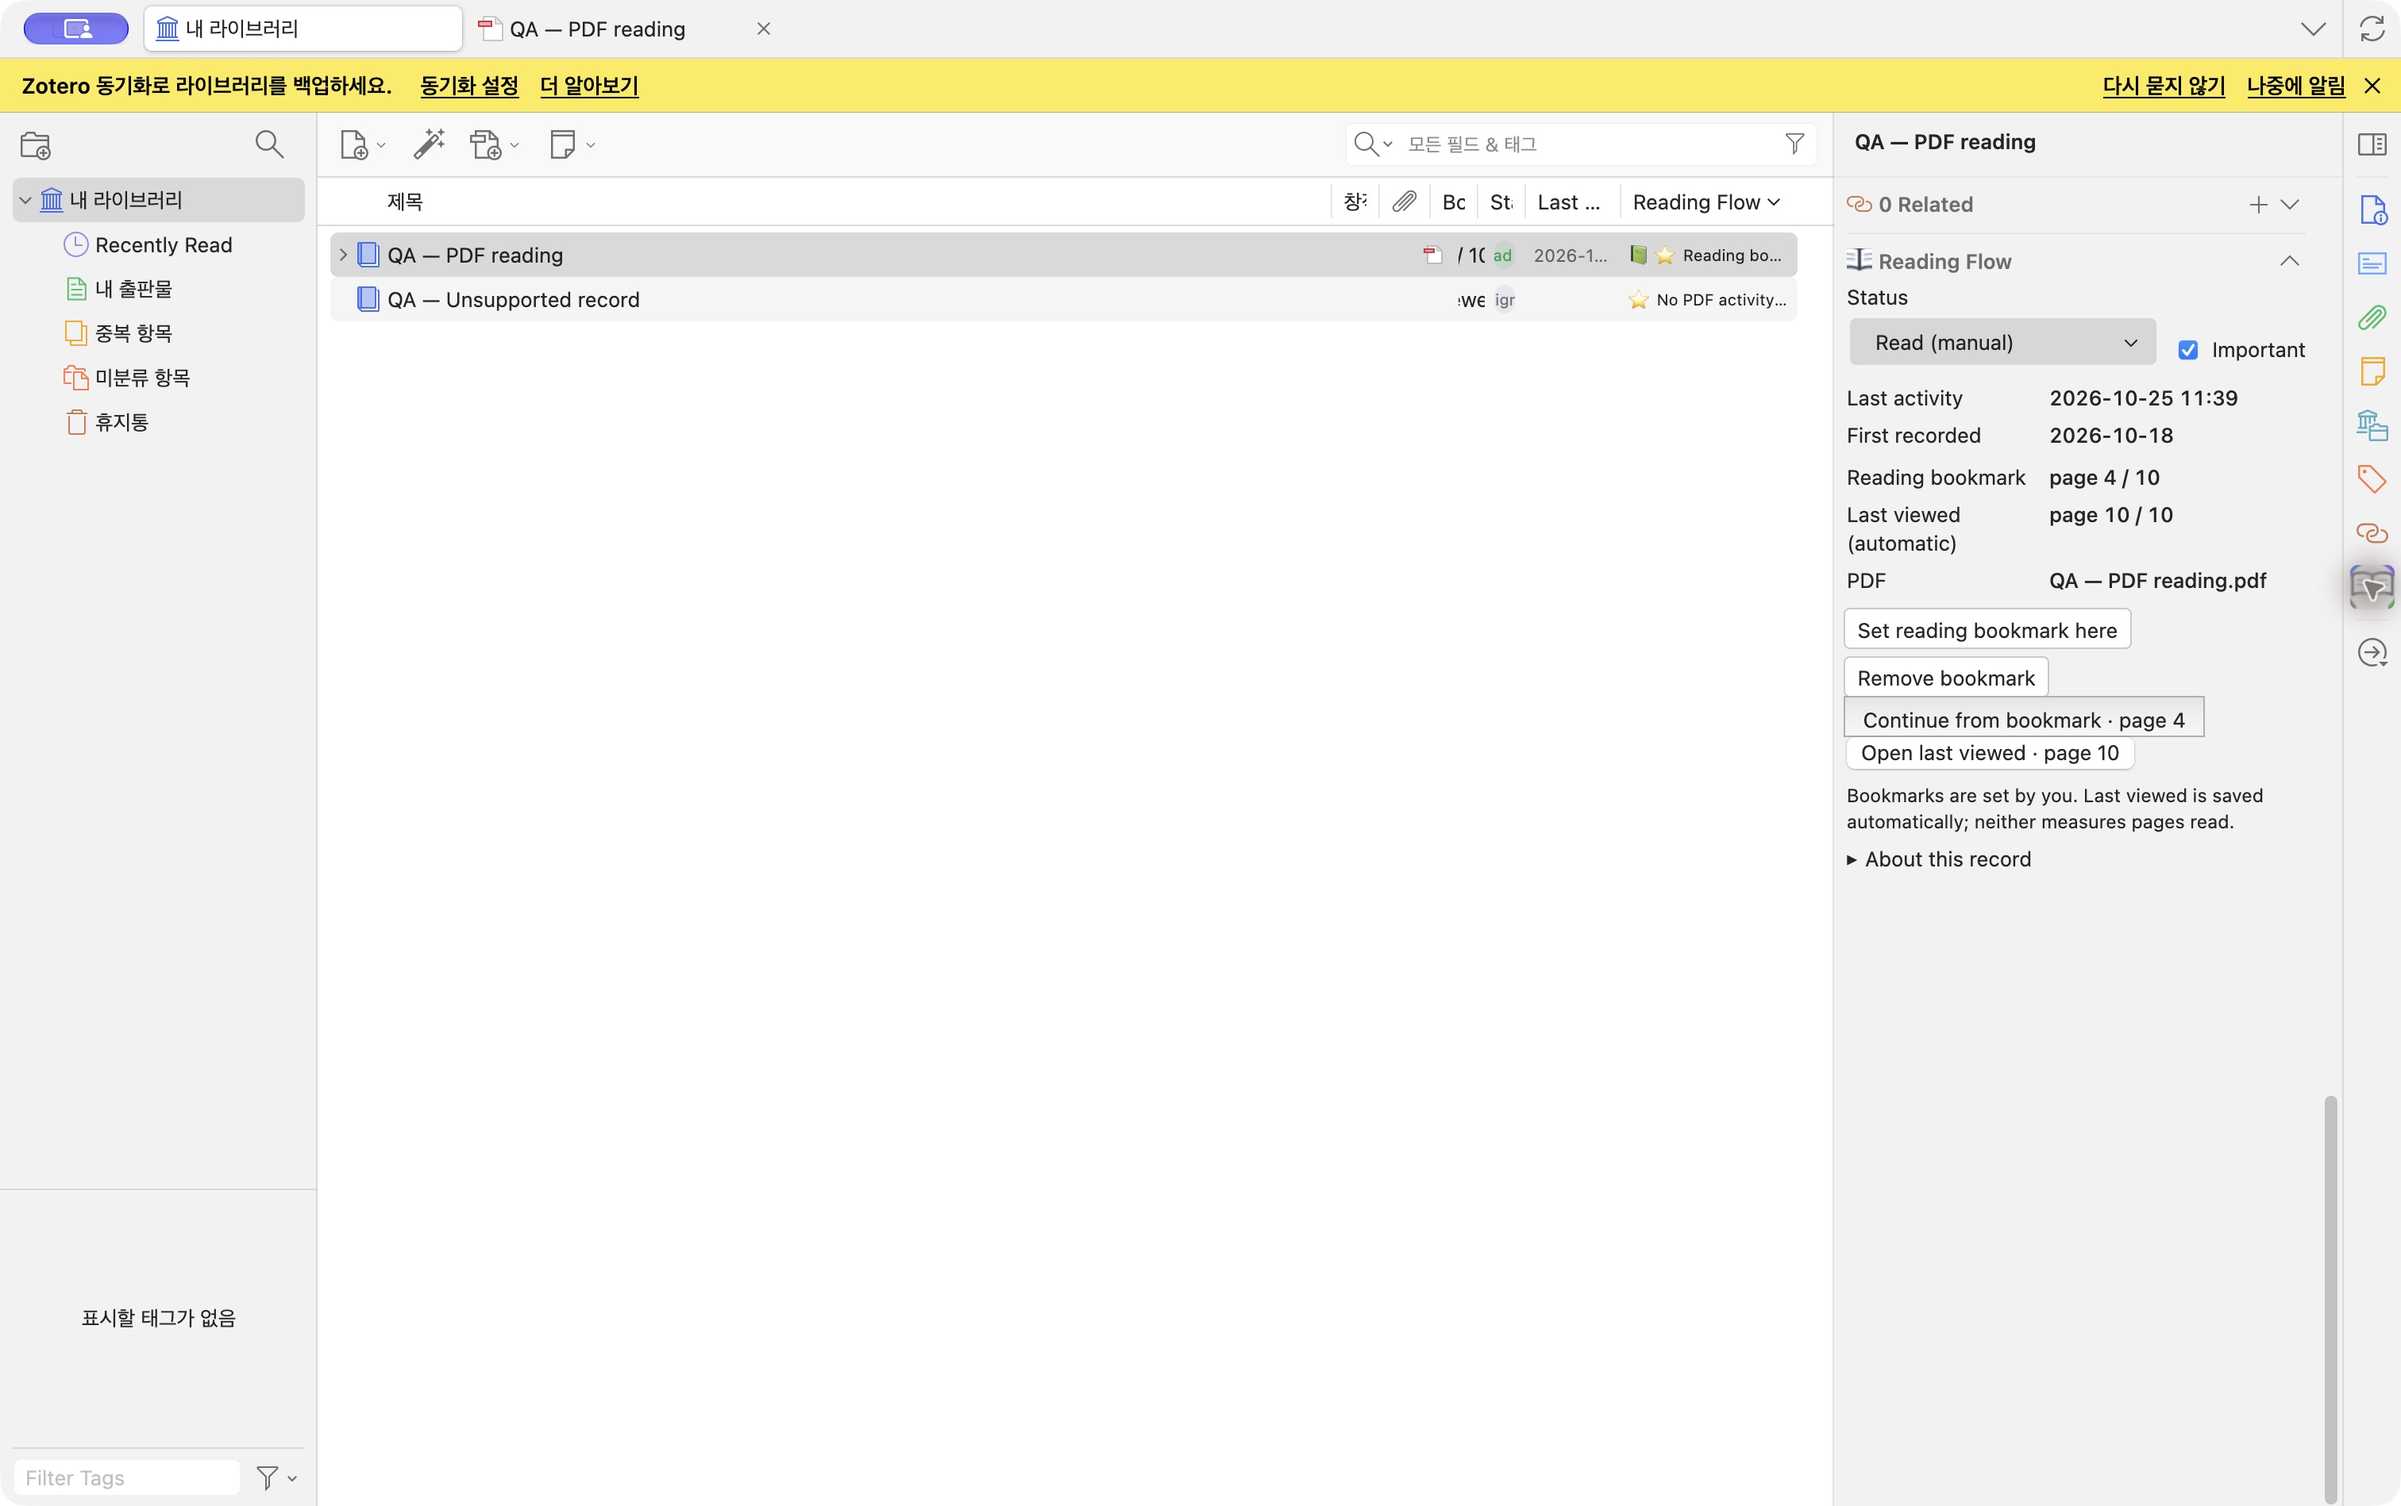
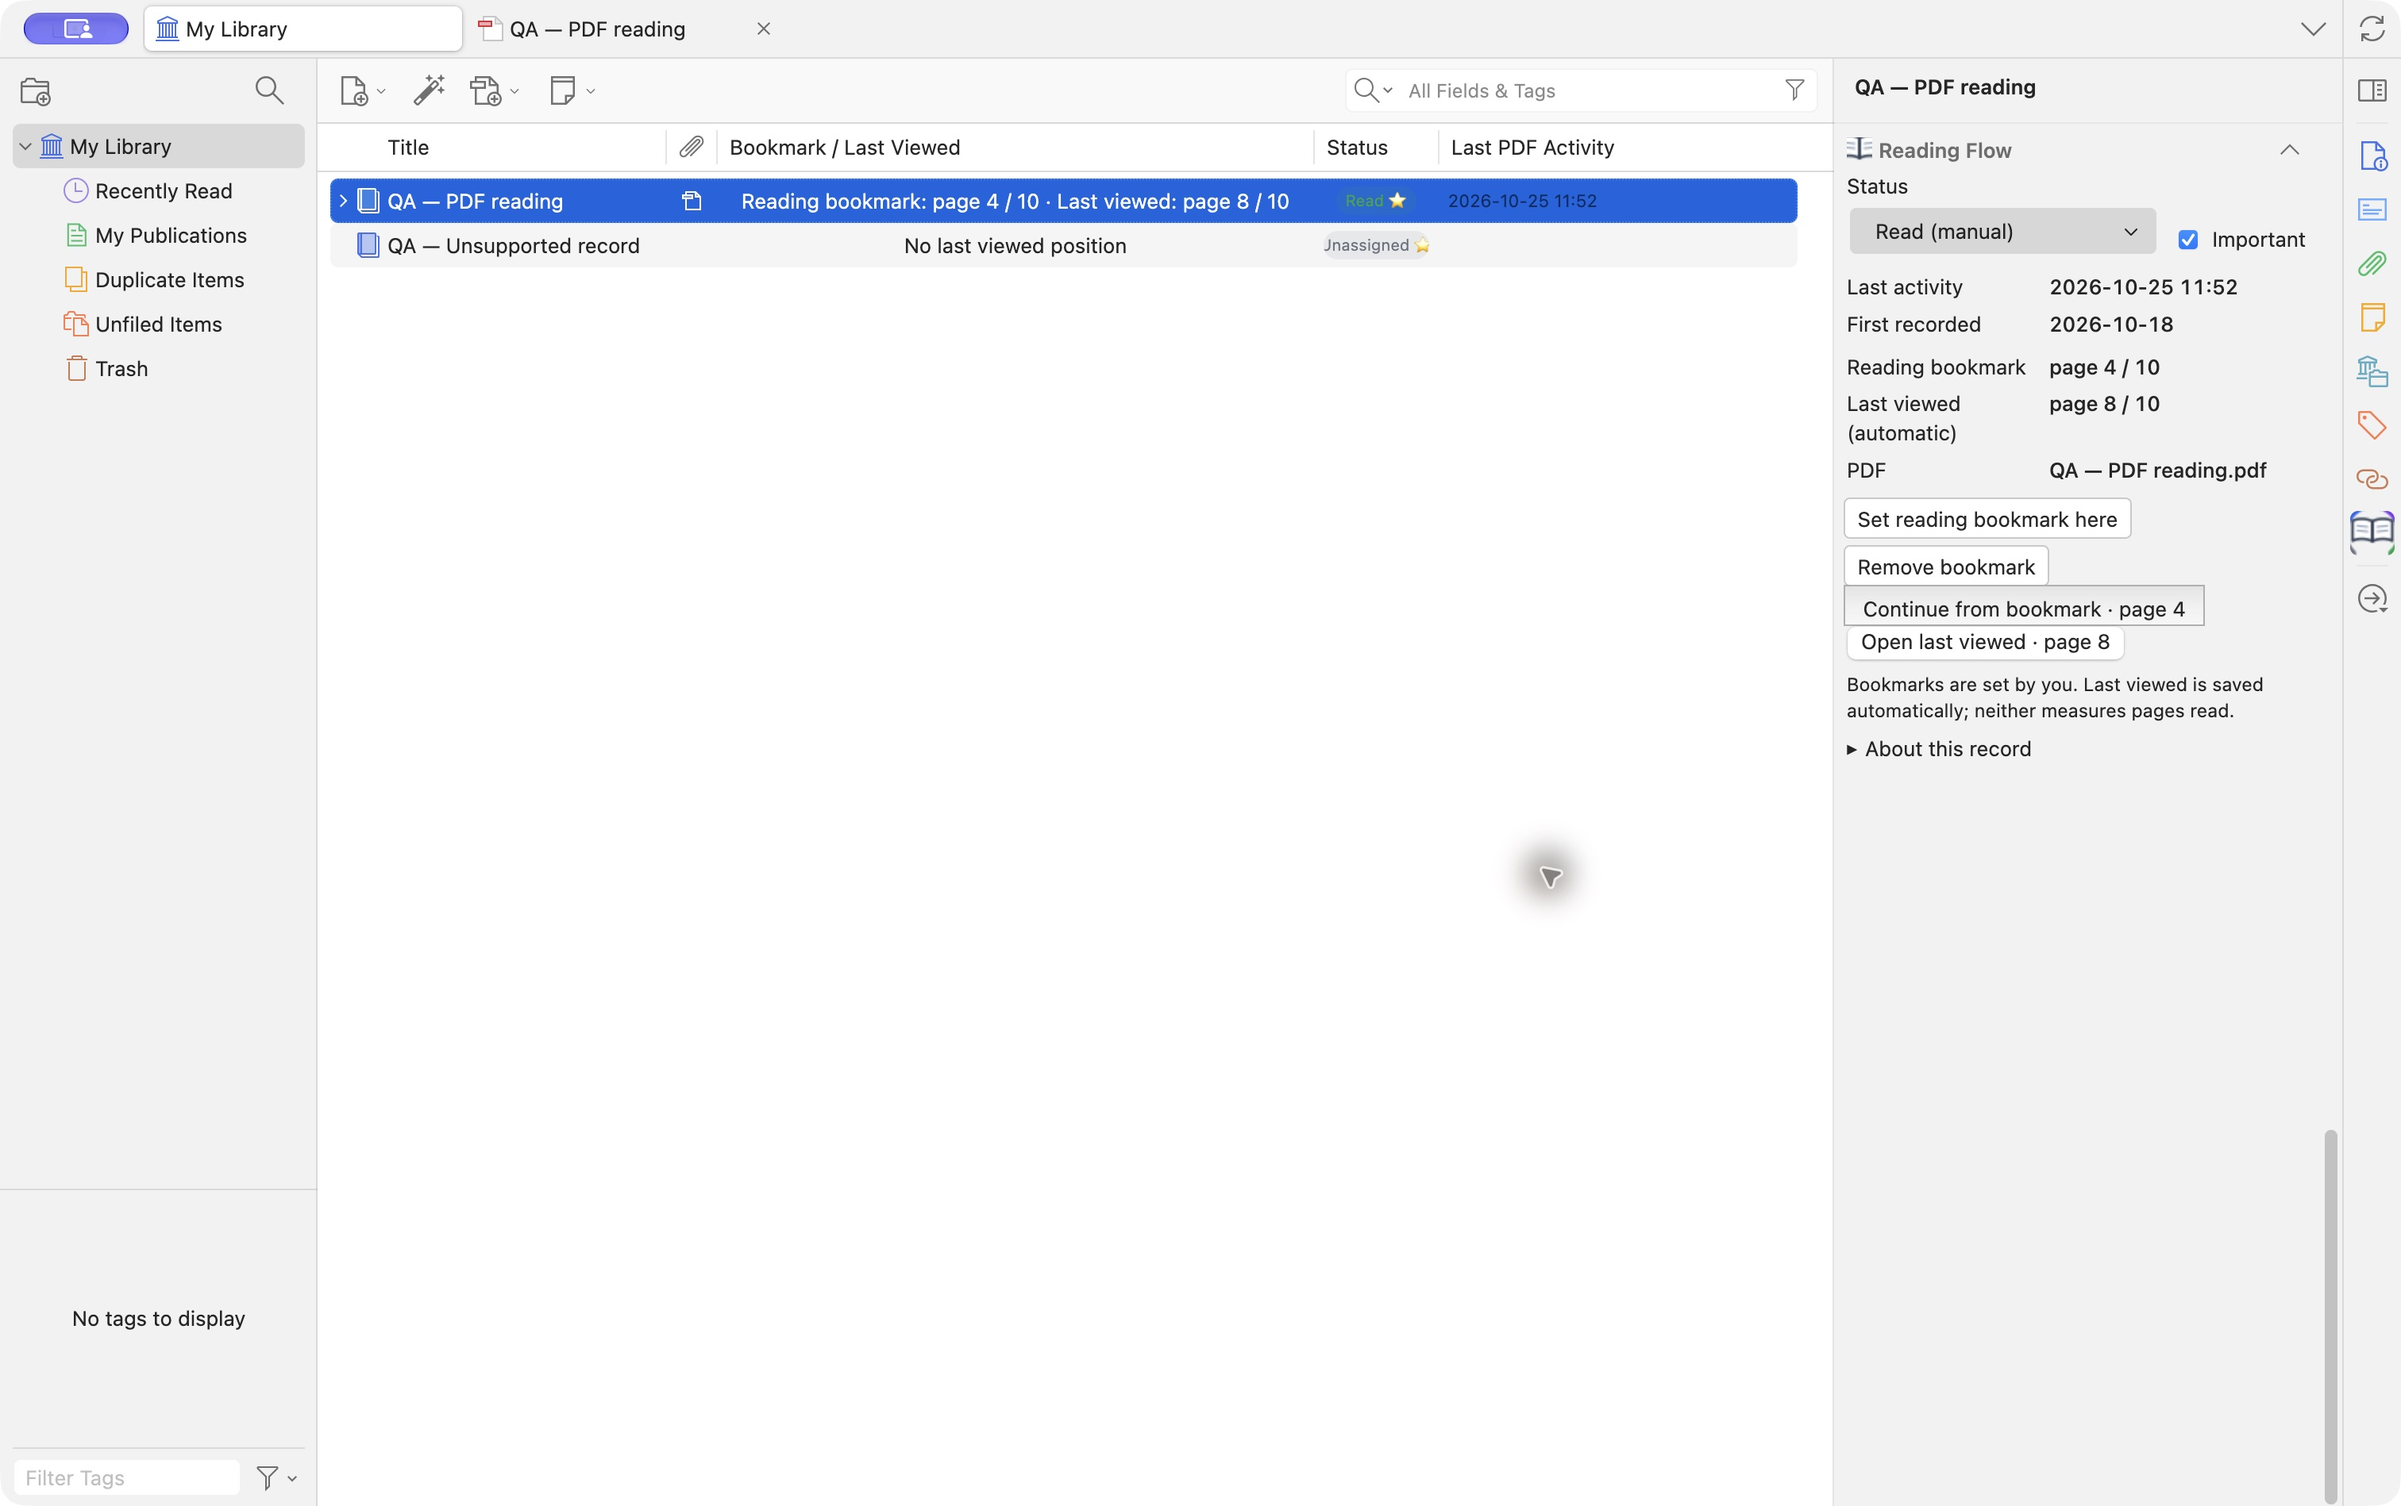
영어 Zotero 실제 캡처로 사용 안내를 통일한다

Changed region(s): [[0.0, 0.0, 1.0, 0.5906], [0.6217, 0.5595, 0.6528, 0.6217], [0.0311, 0.8704, 0.0933, 0.9015]]

diff --git a/docs/assets/README.md b/docs/assets/README.md
@@ -1,14 +1,14 @@
 # README screenshots
 
-The primary README documents the current 1.3.7 source and uses actual Zotero 10.0.6 captures from October 25, 2026. These three files are unchanged copies of verified captures from a separate test profile, not generated mockups. They contain no personal library records. The README notes the current published-release/source distinction.
+The primary README documents the current 1.3.7 source and uses actual English-language Zotero 10.0.6 captures from October 25, 2026. These three files are unchanged copies of verified captures from a separate test profile, not generated mockups. They contain no personal library records. The README notes the current published-release/source distinction.
 
 | File | Shown in the README | Verified context |
 | --- | --- | --- |
-| `reading-bookmarks-statistics.jpg` | Lead image: bookmark and automatic position in separate columns, with a clearly named resume action | Bookmark4/10, last viewed8/10, manually Read and Important; five-column statistics table |
-| `reading-bookmark-button.jpg` | Quick start: where to find Bookmark here | Actual PDF reader at page4/10; button near Aa in the upper-right toolbar |
-| `reading-bookmark-panel.jpg` | Expandable panel example | Bookmark4/10, last viewed10/10 after visiting the final page; explicit bookmark and automatic-position actions |
+| `reading-bookmarks-statistics.jpg` | Lead image: bookmark and automatic position in separate columns, with a clearly named resume action | Bookmark 4/10, last viewed 8/10, manually Read and Important; five-column statistics table |
+| `reading-bookmark-button.jpg` | Quick start: where to find Bookmark here | Actual PDF reader at page 4/10; button near Aa in the upper-right toolbar |
+| `reading-bookmark-panel.jpg` | Expandable panel example | Bookmark 4/10, last viewed 8/10; explicit bookmark and automatic-position actions |
 
-The panel and statistics captures were taken at different moments. The bookmark stayed at page4; the automatic position changed as the PDF was browsed. Each image has its own explanatory caption. Preserve original aspect ratios and UI text; do not synthesize or relabel the interface.
+The panel and statistics captures show the same bookmark at page 4 and last viewed page 8. The reader capture follows Continue from bookmark and shows page 4. Captures were taken in an English-language test profile with a separate app identifier to keep personal Zotero untouched. Only test-window column visibility and widths were adjusted for legibility. Each image has its own explanatory caption. Preserve original aspect ratios and UI text; do not synthesize or relabel the interface.
 
 ## Earlier assets
 

diff --git a/README.md b/README.md
@@ -59,9 +59,9 @@ Choose **Continue from bookmark** to return to your marked page. **Open last vie
 <details>
 <summary>See the Reading Flow panel</summary>
 
-![Actual Zotero Reading Flow panel showing a reading bookmark at page 4 of 10, an automatic position at page 10 of 10, activity dates, and separate actions for each location](docs/assets/reading-bookmark-panel.jpg)
+![Actual Zotero Reading Flow panel showing a reading bookmark at page 4 of 10, an automatic position at page 8 of 10, activity dates, and separate actions for each location](docs/assets/reading-bookmark-panel.jpg)
 
-*This panel capture follows a visit to page 10. The statistics capture above follows a later visit to page 8. Both retain the same bookmark at page 4.*
+*The panel and statistics show the same bookmark at page 4 and automatic position at page 8. Continuing from the bookmark opens page 4, as shown in the reader capture.*
 
 </details>
 
